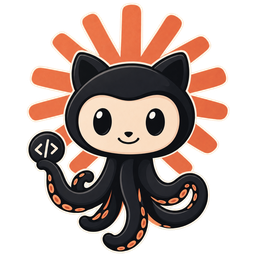
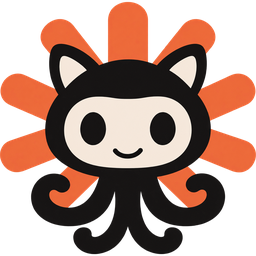
Swap in the redrawn mark
Bold flat shapes instead of fine linework: thick petals, a big head, large eyes.
Measured against the small-size constraints it holds up — nothing thinner than
the 8% floor, content filling the frame, and it stays legible down to 16px where
the previous illustration collapsed into a smudge.

Its orange sits at hue 0.0442 (the retint window is 0.02-0.12) so the petals
recolour and the cat doesn't. Operational is now #EE6939 to match the artwork
exactly, since that's the case the retint skips.

Claude-Session: https://claude.ai/code/session_013Tyyv1fgL8XEtSBj9z3fsQ

diff --git a/background.js b/background.js
@@ -22,7 +22,7 @@ const SERVICES = [
 // Statuspage indicator -> how we present it. `rank` picks the winner when the
 // two services disagree.
 const INDICATORS = {
-  none:        { rank: 0, color: "#EB7247", label: "All Systems Operational" },
+  none:        { rank: 0, color: "#EE6939", label: "All Systems Operational" },
   maintenance: { rank: 1, color: "#5B8FD9", label: "Under Maintenance" },
   unknown:     { rank: 2, color: "#8A8A8A", label: "Status Unavailable" },
   minor:       { rank: 3, color: "#E8A33D", label: "Minor Issue" },
@@ -36,7 +36,7 @@ const style = (indicator) => INDICATORS[indicator] || INDICATORS.unknown;
 
 // The artwork's coral spokes, measured off icons/mark.png. Pixels matching this
 // hue get retinted to the current status colour; the octocat is left alone.
-const CORAL = { h: 0.0437, s: 0.6979, v: 0.9216 };
+const CORAL = { h: 0.0442, s: 0.7605, v: 0.9333 };
 const CORAL_HUE_RANGE = [0.02, 0.12];
 const CORAL_MIN_SAT = 0.35;
 

diff --git a/popup.js b/popup.js
@@ -1,5 +1,5 @@
 const INDICATOR_COLORS = {
-  none: "#EB7247", minor: "#E8A33D", major: "#DC5A3C",
+  none: "#EE6939", minor: "#E8A33D", major: "#DC5A3C",
   critical: "#B4231C", maintenance: "#5B8FD9", unknown: "#8A8A8A",
 };
 const COMPONENT_COLORS = {

diff --git a/README.md b/README.md
@@ -74,7 +74,7 @@ mark has to survive a 16px toolbar slot, so:
 - Keep it to a handful of shapes, readable on both dark and light toolbars.
 
 The recolouring keys on hue, so whatever should change colour must be saturated orange
-(hue 0.02–0.12, saturation >0.35, anchored on `#EB7247`) and everything that should stay put
+(hue 0.02–0.12, saturation >0.35, anchored on `#EE6939`) and everything that should stay put
 must sit outside that range — near-black `#181716` and cream `#F7EBDE` both do.
 
 ## Adding another Statuspage service
